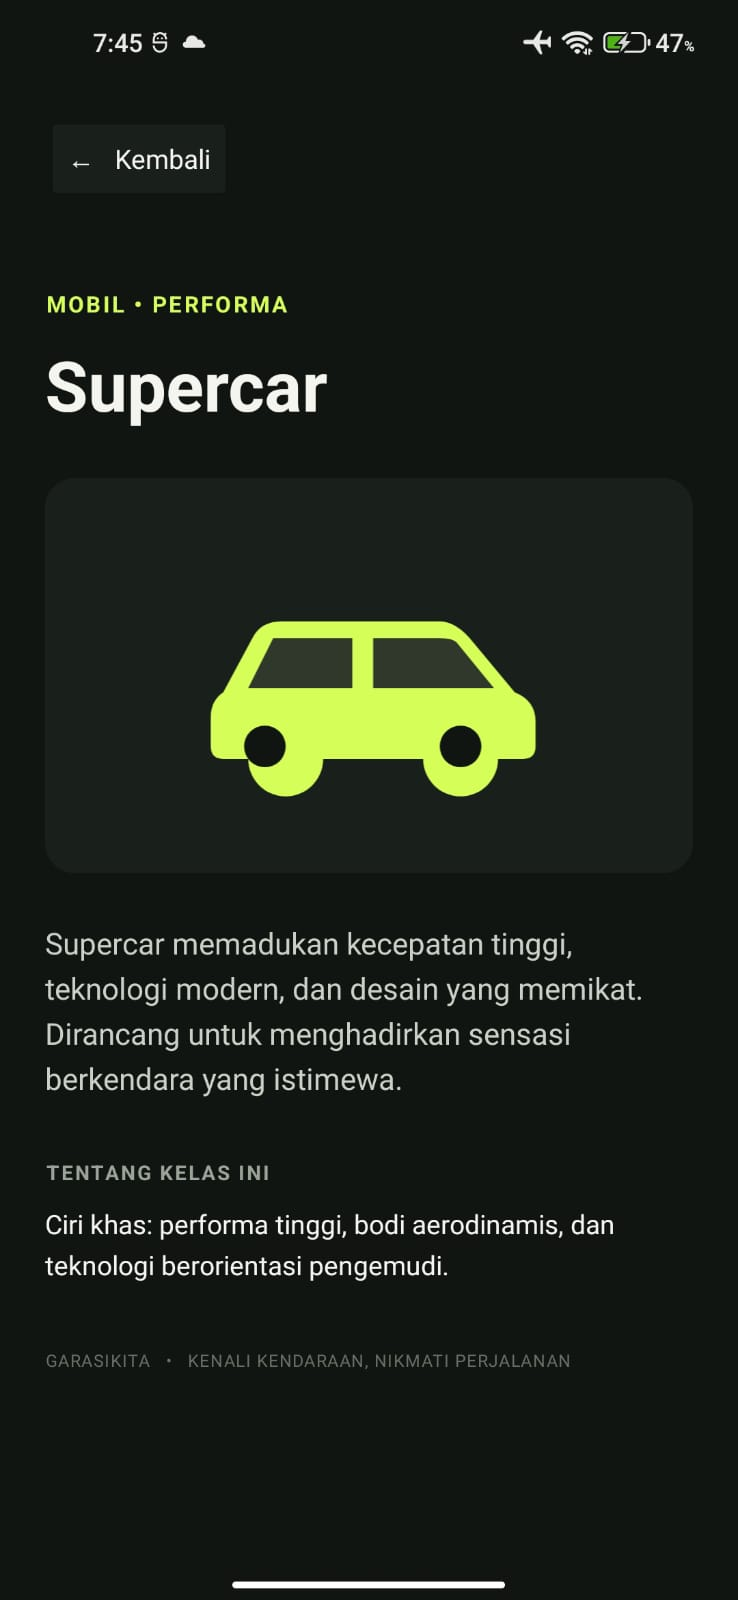
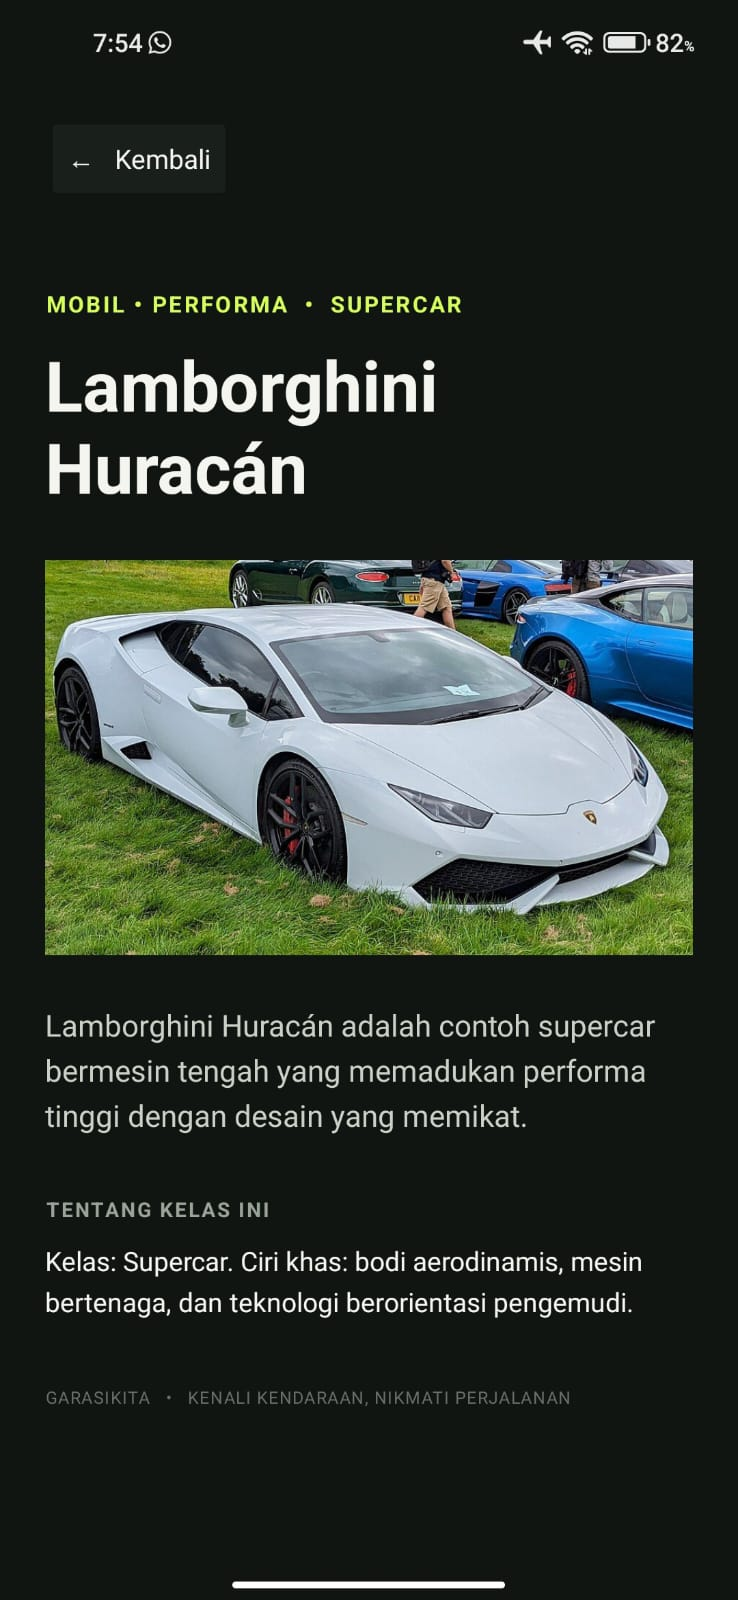
Changes

diff --git a/app/src/main/java/com/garasikita/app/MainActivity.kt b/app/src/main/java/com/garasikita/app/MainActivity.kt
@@ -14,6 +14,7 @@ import android.widget.TextView
 
 private data class Vehicle(
     val name: String,
+    val model: String,
     val category: String,
     val tagline: String,
     val description: String,
@@ -23,25 +24,25 @@ private data class Vehicle(
 
 class MainActivity : Activity() {
     private val cars = listOf(
-        Vehicle("Supercar", "MOBIL • PERFORMA", "Cepat, lincah, dan penuh karakter", "Supercar memadukan kecepatan tinggi, teknologi modern, dan desain yang memikat. Dirancang untuk menghadirkan sensasi berkendara yang istimewa.", "Ciri khas: performa tinggi, bodi aerodinamis, dan teknologi berorientasi pengemudi.", R.drawable.ic_car),
-        Vehicle("Hypercar", "MOBIL • PERFORMA EKSTREM", "Batas teratas teknologi otomotif", "Hypercar berada di puncak dunia performa. Setiap detailnya dirancang untuk mengejar kecepatan, efisiensi aerodinamika, dan pengalaman yang sangat eksklusif.", "Ciri khas: produksi terbatas, tenaga luar biasa, dan rekayasa kelas atas.", R.drawable.ic_car),
-        Vehicle("Sports Car", "MOBIL • SPORT", "Dibuat untuk menikmati setiap tikungan", "Sports car membawa semangat balap ke jalan raya lewat pengendalian yang responsif dan keseimbangan yang menyenangkan.", "Ciri khas: posisi duduk rendah, pengendalian presisi, dan desain sporty.", R.drawable.ic_car),
-        Vehicle("SUV", "MOBIL • SERBAGUNA", "Nyaman untuk kota dan perjalanan jauh", "SUV menawarkan kabin lega dan posisi berkendara lebih tinggi, cocok untuk perjalanan bersama keluarga maupun menjelajahi rute baru.", "Ciri khas: ruang kabin luas, fleksibel, dan ground clearance lebih tinggi.", R.drawable.ic_car),
-        Vehicle("Sedan", "MOBIL • ELEGAN", "Kenyamanan dalam tampilan klasik", "Sedan mengutamakan kenyamanan penumpang dan pengendaraan yang halus dalam bentuk bodi tiga kompartemen yang elegan.", "Ciri khas: bagasi terpisah, kabin nyaman, dan karakter berkendara tenang.", R.drawable.ic_car),
-        Vehicle("Electric Car", "MOBIL • ELEKTRIK", "Melaju senyap dengan tenaga listrik", "Mobil listrik menggunakan motor elektrik sebagai penggerak utama, memberikan akselerasi halus dan pengalaman berkendara yang senyap.", "Ciri khas: baterai isi ulang, tanpa emisi gas buang saat berkendara.", R.drawable.ic_car),
-        Vehicle("Off-road 4×4", "MOBIL • PETUALANG", "Siap meninggalkan jalan beraspal", "Kendaraan off-road dirancang untuk menghadapi medan berat dengan traksi dan ground clearance yang mendukung petualangan.", "Ciri khas: penggerak empat roda, suspensi tangguh, ban untuk berbagai medan.", R.drawable.ic_car),
-        Vehicle("Convertible", "MOBIL • GAYA HIDUP", "Nikmati perjalanan dengan atap terbuka", "Convertible menawarkan pengalaman perjalanan yang lebih dekat dengan suasana sekitar berkat atap yang bisa dibuka.", "Ciri khas: atap lipat atau lepas dan siluet yang khas.", R.drawable.ic_car),
+        Vehicle("Supercar", "Lamborghini Huracán", "MOBIL • PERFORMA", "Cepat, lincah, dan penuh karakter", "Lamborghini Huracán adalah contoh supercar bermesin tengah yang memadukan performa tinggi dengan desain yang memikat.", "Kelas: Supercar. Ciri khas: bodi aerodinamis, mesin bertenaga, dan teknologi berorientasi pengemudi.", R.drawable.car_supercar),
+        Vehicle("Hypercar", "Bugatti Chiron", "MOBIL • PERFORMA EKSTREM", "Batas teratas teknologi otomotif", "Bugatti Chiron adalah contoh hypercar produksi yang mengejar kecepatan, efisiensi aerodinamika, dan pengalaman yang sangat eksklusif.", "Kelas: Hypercar. Ciri khas: produksi terbatas, tenaga luar biasa, dan rekayasa kelas atas.", R.drawable.car_hypercar),
+        Vehicle("Sports Car", "Porsche 911", "MOBIL • SPORT", "Dibuat untuk menikmati setiap tikungan", "Porsche 911 membawa semangat mobil sport ke jalan raya lewat pengendalian yang responsif dan keseimbangan yang menyenangkan.", "Kelas: Sports Car. Ciri khas: posisi duduk rendah, pengendalian presisi, dan desain sporty.", R.drawable.car_sports),
+        Vehicle("SUV", "Jeep Wrangler", "MOBIL • SERBAGUNA", "Nyaman untuk kota dan perjalanan jauh", "Jeep Wrangler adalah contoh SUV tangguh dengan kabin lega dan kemampuan menjelajahi berbagai rute.", "Kelas: SUV. Ciri khas: ruang kabin fleksibel, posisi berkendara tinggi, dan ground clearance tinggi.", R.drawable.car_suv),
+        Vehicle("Sedan", "BMW 3 Series", "MOBIL • ELEGAN", "Kenyamanan dalam tampilan klasik", "BMW 3 Series menjadi contoh sedan yang mengutamakan kenyamanan penumpang dan pengendaraan yang halus.", "Kelas: Sedan. Ciri khas: bagasi terpisah, kabin nyaman, dan karakter berkendara tenang.", R.drawable.car_sedan),
+        Vehicle("Electric Car", "Tesla Model S", "MOBIL • ELEKTRIK", "Melaju senyap dengan tenaga listrik", "Tesla Model S menggunakan penggerak elektrik untuk memberikan akselerasi halus dan pengalaman berkendara yang senyap.", "Kelas: Mobil listrik. Ciri khas: baterai isi ulang dan tanpa emisi gas buang saat berkendara.", R.drawable.car_electric),
+        Vehicle("Off-road 4×4", "Toyota Land Cruiser", "MOBIL • PETUALANG", "Siap meninggalkan jalan beraspal", "Toyota Land Cruiser dirancang untuk menghadapi medan berat dengan traksi dan ground clearance yang mendukung petualangan.", "Kelas: Off-road 4×4. Ciri khas: penggerak empat roda, suspensi tangguh, dan ban untuk berbagai medan.", R.drawable.car_offroad),
+        Vehicle("Convertible", "Mazda MX-5 Miata", "MOBIL • GAYA HIDUP", "Nikmati perjalanan dengan atap terbuka", "Mazda MX-5 Miata adalah roadster ringan dengan atap yang dapat dibuka untuk menikmati suasana perjalanan.", "Kelas: Convertible. Ciri khas: atap lipat dan siluet roadster yang khas.", R.drawable.car_convertible),
     )
 
     private val bikes = listOf(
-        Vehicle("Superbike", "MOTOR • PERFORMA", "DNA sirkuit untuk jalan raya", "Superbike membawa karakter motor balap dengan performa tinggi dan posisi berkendara yang agresif.", "Ciri khas: fairing penuh, mesin bertenaga, dan aerodinamika sport.", R.drawable.ic_bike),
-        Vehicle("Naked Bike", "MOTOR • SPORT", "Gaya tegas dan kendali praktis", "Naked bike menggabungkan karakter sporty dengan posisi berkendara yang lebih tegak dan nyaman untuk keseharian.", "Ciri khas: mesin terekspos, posisi santai, dan desain minimalis.", R.drawable.ic_bike),
-        Vehicle("Adventure", "MOTOR • PETUALANG", "Jelajahi lebih dari sekadar aspal", "Motor adventure dibuat untuk perjalanan jauh dan berbagai kondisi jalan, dari perkotaan hingga jalur yang menantang.", "Ciri khas: suspensi panjang, posisi tegak, dan kapasitas touring.", R.drawable.ic_bike),
-        Vehicle("Cruiser", "MOTOR • KLASIK", "Santai menikmati setiap kilometer", "Cruiser mengutamakan kenyamanan dan karakter berkendara yang rileks dengan desain klasik yang ikonik.", "Ciri khas: jok rendah, setang lebar, dan posisi kaki ke depan.", R.drawable.ic_bike),
-        Vehicle("Scooter", "MOTOR • HARIAN", "Lincah untuk rutinitas kota", "Scooter praktis digunakan sehari-hari berkat transmisi yang mudah, dek kaki rata, dan ruang penyimpanan yang berguna.", "Ciri khas: transmisi otomatis, praktis, dan nyaman untuk perkotaan.", R.drawable.ic_bike),
-        Vehicle("Cafe Racer", "MOTOR • RETRO", "Sentuhan klasik yang personal", "Cafe racer terinspirasi dari motor balap klasik dengan gaya sederhana yang mengutamakan karakter dan detail.", "Ciri khas: siluet ramping, jok khas, dan tampilan retro.", R.drawable.ic_bike),
-        Vehicle("Motocross", "MOTOR • OFF-ROAD", "Lincah menaklukkan jalur tanah", "Motocross dirancang untuk jalur off-road dan lintasan tanah, dengan konstruksi ringan dan suspensi yang siap menghadapi lompatan.", "Ciri khas: ban bertapak dalam, bobot ringan, tanpa perlengkapan jalan umum.", R.drawable.ic_bike),
-        Vehicle("Electric Bike", "MOTOR • ELEKTRIK", "Perjalanan senyap untuk masa depan", "Motor listrik memakai baterai sebagai sumber energi dan menghadirkan pengendaraan yang senyap untuk perjalanan harian.", "Ciri khas: penggerak elektrik, pengisian daya, dan perawatan praktis.", R.drawable.ic_bike),
+        Vehicle("Superbike", "Kawasaki Ninja", "MOTOR • PERFORMA", "DNA sirkuit untuk jalan raya", "Kawasaki Ninja menjadi contoh motor sport berfairing penuh dengan performa tinggi dan posisi berkendara agresif.", "Kelas: Superbike. Ciri khas: fairing penuh, mesin bertenaga, dan aerodinamika sport.", R.drawable.bike_superbike),
+        Vehicle("Naked Bike", "Kawasaki Z900", "MOTOR • SPORT", "Gaya tegas dan kendali praktis", "Kawasaki Z900 menggabungkan karakter sporty dengan posisi berkendara tegak dan mesin yang terekspos.", "Kelas: Naked Bike. Ciri khas: mesin terekspos, posisi santai, dan desain minimalis.", R.drawable.bike_naked),
+        Vehicle("Adventure", "BMW R 1250 GS", "MOTOR • PETUALANG", "Jelajahi lebih dari sekadar aspal", "BMW R 1250 GS dibuat untuk perjalanan jauh dan berbagai kondisi jalan, dari perkotaan hingga jalur menantang.", "Kelas: Adventure. Ciri khas: suspensi panjang, posisi tegak, dan kapasitas touring.", R.drawable.bike_adventure),
+        Vehicle("Cruiser", "Harley-Davidson Cruiser", "MOTOR • KLASIK", "Santai menikmati setiap kilometer", "Cruiser Harley-Davidson mengutamakan kenyamanan dan karakter berkendara rileks dengan desain klasik ikonik.", "Kelas: Cruiser. Ciri khas: jok rendah, setang lebar, dan posisi kaki ke depan.", R.drawable.bike_cruiser),
+        Vehicle("Scooter", "Vespa", "MOTOR • HARIAN", "Lincah untuk rutinitas kota", "Vespa adalah contoh skuter bergaya klasik yang praktis untuk aktivitas harian di perkotaan.", "Kelas: Scooter. Ciri khas: transmisi otomatis, praktis, dan nyaman untuk perkotaan.", R.drawable.bike_scooter),
+        Vehicle("Cafe Racer", "Honda CB400 Cafe Racer", "MOTOR • RETRO", "Sentuhan klasik yang personal", "Honda CB400 modifikasi cafe racer terinspirasi motor balap klasik dengan gaya sederhana dan personal.", "Kelas: Cafe Racer. Ciri khas: siluet ramping, jok khas, dan tampilan retro.", R.drawable.bike_cafe),
+        Vehicle("Motocross", "Motorcross", "MOTOR • OFF-ROAD", "Lincah menaklukkan jalur tanah", "Motorcross dirancang untuk lintasan tanah dengan konstruksi ringan dan suspensi yang siap menghadapi lompatan.", "Kelas: Motocross. Ciri khas: ban bertapak dalam, bobot ringan, dan suspensi panjang.", R.drawable.bike_motocross),
+        Vehicle("Electric Bike", "Zero S", "MOTOR • ELEKTRIK", "Perjalanan senyap untuk masa depan", "Zero S memakai baterai sebagai sumber energi dan menghadirkan pengendaraan senyap untuk perjalanan harian.", "Kelas: Motor listrik. Ciri khas: penggerak elektrik dan pengisian daya baterai.", R.drawable.bike_electric),
     )
 
     private var showingCars = true
@@ -68,13 +69,16 @@ class MainActivity : Activity() {
             carsButton.setTextColor(getColor(if (showingCars) R.color.ink else android.R.color.white))
             bikesButton.setTextColor(getColor(if (showingCars) android.R.color.white else R.color.ink))
             list.removeAllViews()
-            val matching = items.filter { it.name.contains(query.trim(), ignoreCase = true) || it.tagline.contains(query.trim(), ignoreCase = true) }
+            val matching = items.filter { it.name.contains(query.trim(), ignoreCase = true) || it.model.contains(query.trim(), ignoreCase = true) || it.tagline.contains(query.trim(), ignoreCase = true) }
             matching.forEach { vehicle ->
                 val row = LayoutInflater.from(this).inflate(R.layout.item_vehicle, list, false)
-                row.findViewById<ImageView>(R.id.vehicleImage).setImageResource(vehicle.image)
+                row.findViewById<ImageView>(R.id.vehicleImage).apply {
+                    setImageResource(vehicle.image)
+                    contentDescription = "Foto ${vehicle.model}"
+                }
                 row.findViewById<TextView>(R.id.vehicleType).text = vehicle.category
-                row.findViewById<TextView>(R.id.vehicleName).text = vehicle.name
-                row.findViewById<TextView>(R.id.vehicleDescription).text = vehicle.tagline
+                row.findViewById<TextView>(R.id.vehicleName).text = vehicle.model
+                row.findViewById<TextView>(R.id.vehicleDescription).text = "${vehicle.name} · ${vehicle.tagline}"
                 row.setOnClickListener { showDetail(vehicle) }
                 list.addView(row)
             }
@@ -102,9 +106,12 @@ class MainActivity : Activity() {
 
     private fun showDetail(vehicle: Vehicle) {
         setContentView(R.layout.activity_detail)
-        findViewById<TextView>(R.id.detailType).text = vehicle.category
-        findViewById<TextView>(R.id.detailName).text = vehicle.name
-        findViewById<ImageView>(R.id.detailImage).setImageResource(vehicle.image)
+        findViewById<TextView>(R.id.detailType).text = "${vehicle.category}  •  ${vehicle.name.uppercase()}"
+        findViewById<TextView>(R.id.detailName).text = vehicle.model
+        findViewById<ImageView>(R.id.detailImage).apply {
+            setImageResource(vehicle.image)
+            contentDescription = "Foto ${vehicle.model}"
+        }
         findViewById<TextView>(R.id.detailDescription).text = vehicle.description
         findViewById<TextView>(R.id.detailExtra).text = vehicle.extra
         findViewById<Button>(R.id.backButton).setOnClickListener { showCatalog() }

diff --git a/README.md b/README.md
@@ -10,15 +10,16 @@ Aplikasi katalog kendaraan Android dengan Kotlin dan tampilan XML. Tema mobil da
 
 - Dua kategori utama: mobil dan motor.
 - Delapan kelas untuk setiap kategori, termasuk Supercar, Hypercar, Superbike, dan Adventure.
-- Pencarian nama kelas dan kategori.
-- Halaman detail dengan ringkasan dan ciri khas setiap kelas.
-- Tombol kembali, ilustrasi kendaraan vektor, dan tampilan gelap beraksen hijau.
-- Berjalan offline; tidak memerlukan akun atau izin khusus.
+- Contoh model nyata pada setiap kelas, seperti Lamborghini Huracán, Bugatti Chiron, Kawasaki Ninja, dan Vespa.
+- Pencarian nama kelas, merek, dan model.
+- Halaman detail dengan foto, ringkasan, dan ciri khas setiap kelas.
+- Tombol kembali dan tampilan gelap beraksen hijau.
+- Berjalan offline; foto disimpan di dalam aplikasi dan tidak memerlukan izin internet.
 
 ## Layar
 
 1. **Katalog** — pilih Mobil atau Motor, cari kelas kendaraan, lalu ketuk kartu untuk membuka detail.
-2. **Detail** — membaca ringkasan kelas kendaraan dan kembali ke katalog.
+2. **Detail** — melihat foto model contoh, membaca ringkasan kelas kendaraan, dan kembali ke katalog.
 
 ## Cara menjalankan di Android Studio
 
@@ -50,9 +51,36 @@ adb install -r app/build/outputs/apk/debug/app-debug.apk
   <img src="detail.jpeg" alt="Layar detail kendaraan" width="220">
 </p>
 
+## Sumber dan atribusi foto
+
+Foto kendaraan berasal dari Wikimedia Commons, bukan gambar hasil generasi AI. Foto diubah ukurannya dan dipotong agar sesuai dengan tampilan aplikasi. File disimpan lokal di `app/src/main/res/drawable-nodpi/`, jadi tetap muncul saat aplikasi dipakai tanpa internet.
+
+### Mobil
+
+- Supercar — [Lamborghini Huracan 11.jpg](https://commons.wikimedia.org/wiki/File:Lamborghini_Huracan_11.jpg), Calreyn88, CC BY 4.0.
+- Hypercar — [Bugatti Chiron 2017.jpg](https://commons.wikimedia.org/wiki/File:Bugatti_Chiron_2017.jpg), MrWalkr, CC BY-SA 4.0.
+- Sports car — [Porsche 911 991.jpg](https://commons.wikimedia.org/wiki/File:Porsche_911_991.jpg), Calreyn88, CC BY-SA 4.0.
+- SUV — [Jeep Wrangler.jpg](https://commons.wikimedia.org/wiki/File:Jeep_Wrangler.jpg), FotoSleuth, CC BY 2.0.
+- Sedan — [BMW 3 Series 3.jpg](https://commons.wikimedia.org/wiki/File:BMW_3_Series_3.jpg), Calreyn88, CC BY-SA 4.0.
+- Mobil listrik — [2024 Tesla Model S.jpg](https://commons.wikimedia.org/wiki/File:2024_Tesla_Model_S.jpg), Calreyn88, CC BY-SA 4.0.
+- Off-road — [1991 Toyota Land Cruiser.jpg](https://commons.wikimedia.org/wiki/File:1991_Toyota_Land_Cruiser.jpg), Calreyn88, CC BY-SA 4.0.
+- Convertible — [Mazda MX-5 Miata NA.jpg](https://commons.wikimedia.org/wiki/File:Mazda_MX-5_Miata_NA.jpg), Tronerud, CC BY-SA 4.0.
+
+### Motor
+
+- Superbike — [Kawasaki Ninja.jpg](https://commons.wikimedia.org/wiki/File:Kawasaki_Ninja.jpg), Calreyn88, CC BY-SA 4.0.
+- Naked bike — [KawasakiZ900.jpg](https://commons.wikimedia.org/wiki/File:KawasakiZ900.jpg), T.doi.z900, CC BY-SA 4.0.
+- Adventure — [BMW R1250 GS Motorbike.jpg](https://commons.wikimedia.org/wiki/File:BMW_R1250_GS_Motorbike.jpg), TaurusEmerald, CC BY-SA 4.0.
+- Cruiser — [Harley Davidson Cruiser and Touring bike](https://commons.wikimedia.org/wiki/File:Harley_Davidson_Cruiser_and_Touring_bike_%28parked%29_-_Ride_for_Kids_Las_vegas_2019.jpg), Noah Wulf, CC BY-SA 4.0.
+- Scooter — [Amsterdam - Vespa scooter - 0332.jpg](https://commons.wikimedia.org/wiki/File:Amsterdam_-_Vespa_scooter_-_0332.jpg), Jorge Royan, CC BY-SA 3.0.
+- Cafe racer — [Motorcycle 4.jpg](https://commons.wikimedia.org/wiki/File:Motorcycle_4.jpg), Aforakhilesh, CC0 1.0.
+- Motocross — [Motocross.JPG](https://commons.wikimedia.org/wiki/File:Motocross.JPG), 28 *coloret* 28, CC BY-SA 2.5.
+- Motor listrik — [Elektromotorrad von Zero Motorcycles](https://commons.wikimedia.org/wiki/File:Elektromotorrad_von_Zero_Motorcycles_mit_Z-Force-Batterie-Technologie.jpg), Zero Motorcycles, izin atribusi.
+
 ## Struktur singkat
 
 - `app/src/main/java/com/garasikita/app/MainActivity.kt` — data katalog, pencarian, dan navigasi antarlayar.
 - `app/src/main/res/layout/` — layout XML untuk katalog, kartu daftar, dan detail.
-- `app/src/main/res/drawable/` — ilustrasi kendaraan vektor dan latar kartu.
+- `app/src/main/res/drawable-nodpi/` — foto kendaraan lokal agar tampil offline.
+- `app/src/main/res/drawable/` — ikon vektor dan latar kartu.
 - `app/src/main/AndroidManifest.xml` — deklarasi aplikasi dan activity utama.
